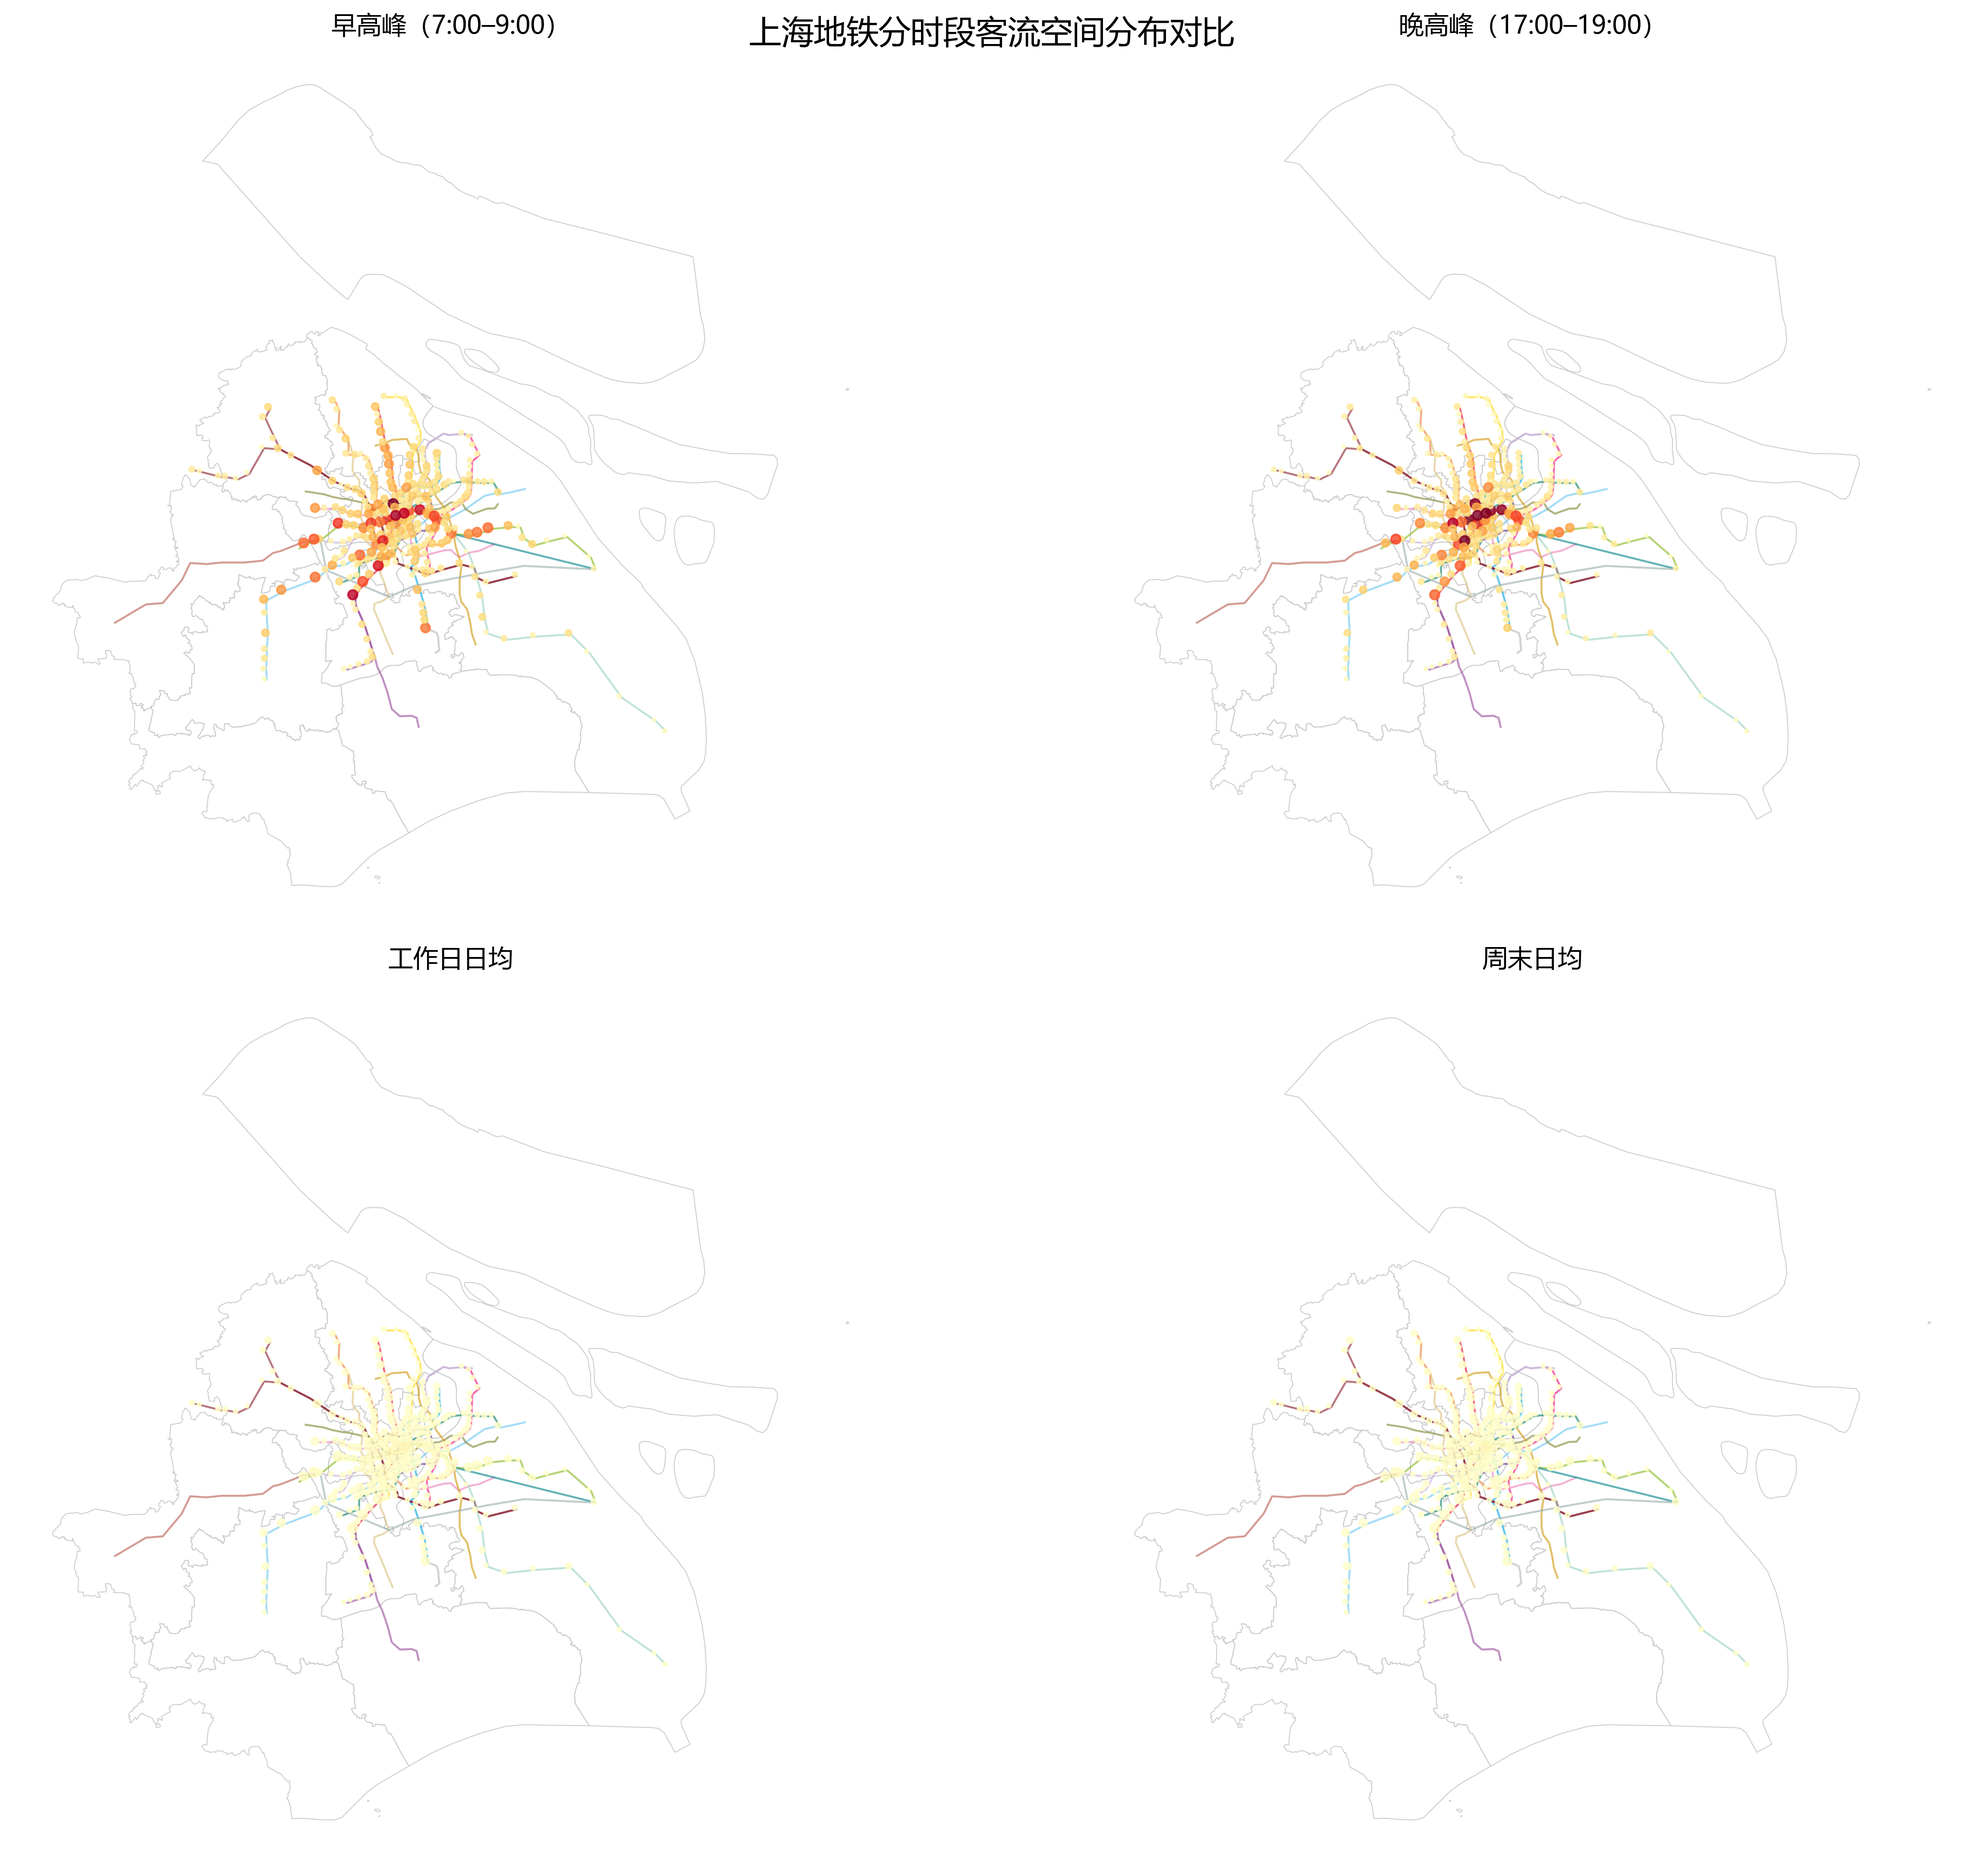
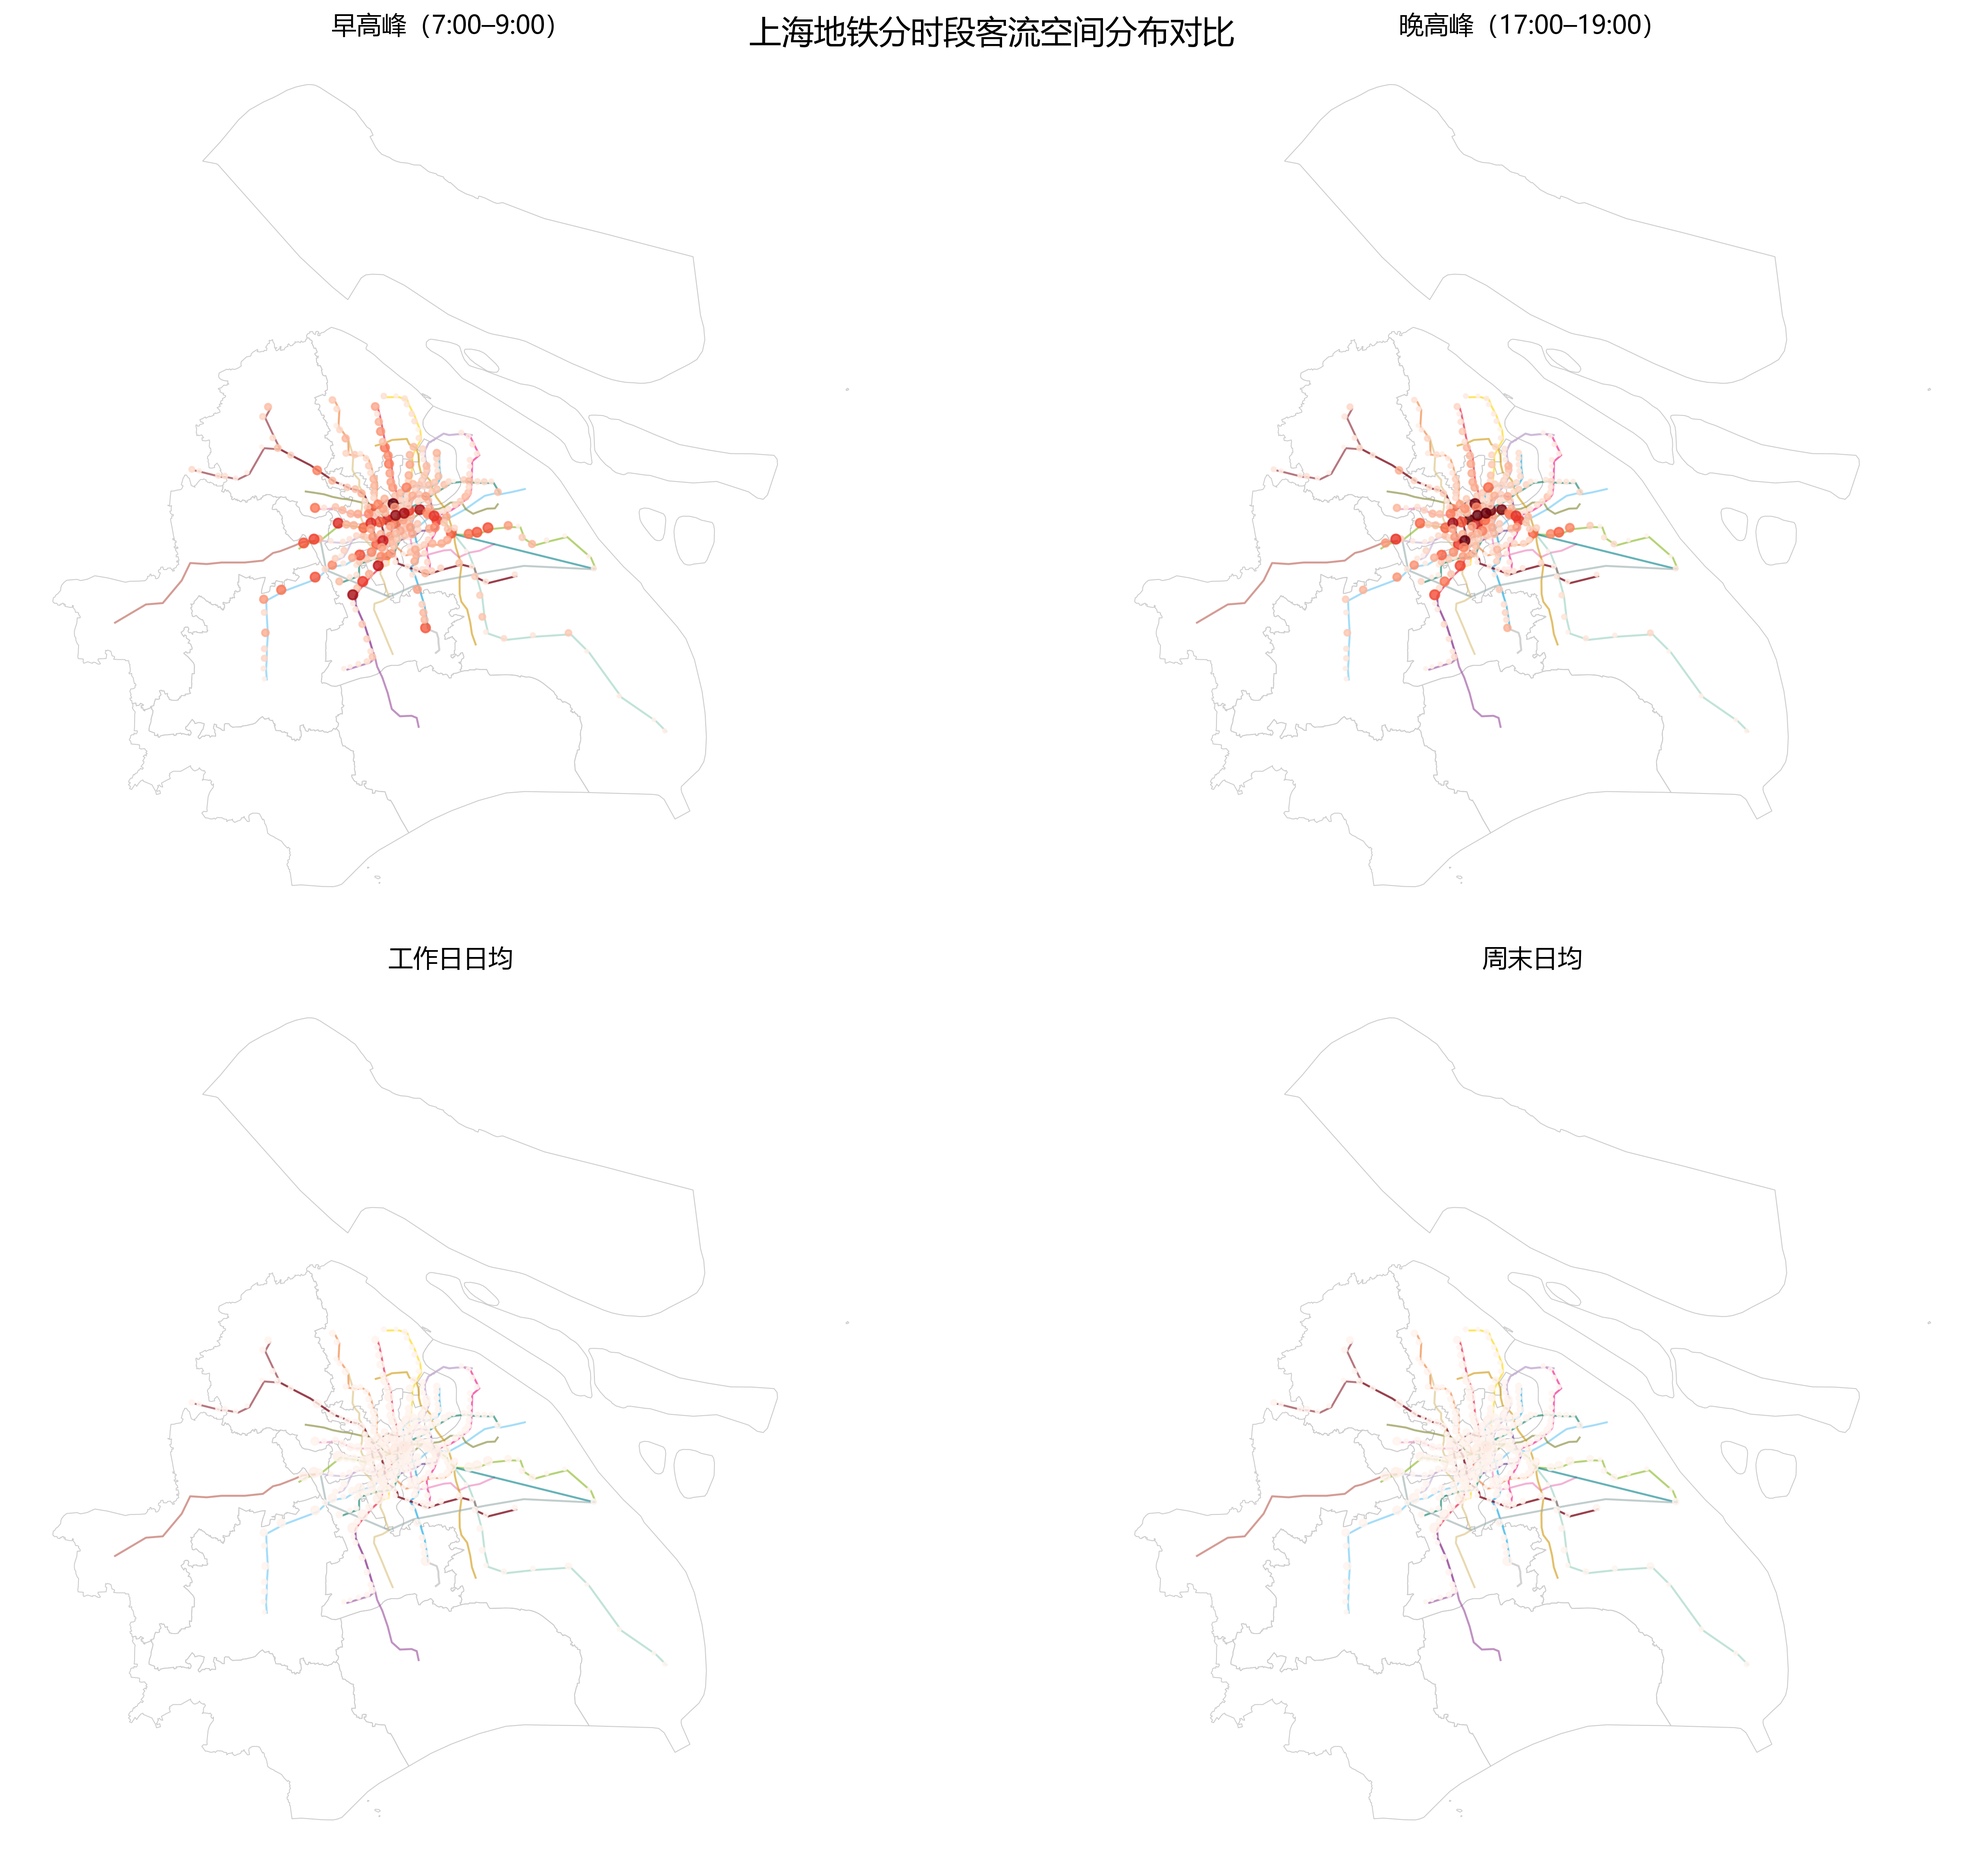
分工3: 图3-2配色从YlOrRd改为Reds深色渐变

diff --git a/code/分工3/05_分时段对比图.py b/code/分工3/05_分时段对比图.py
@@ -13,7 +13,7 @@ matplotlib.use("Agg")
 import matplotlib.pyplot as plt
 import numpy as np
 
-CMAP_FLOW = "YlOrRd"
+CMAP_FLOW = "Reds"  # 纯红渐变，浅色端也清晰可见
 
 plt.rcParams["font.sans-serif"] = ["Microsoft YaHei", "SimHei", "Arial Unicode MS"]
 plt.rcParams["axes.unicode_minus"] = False
